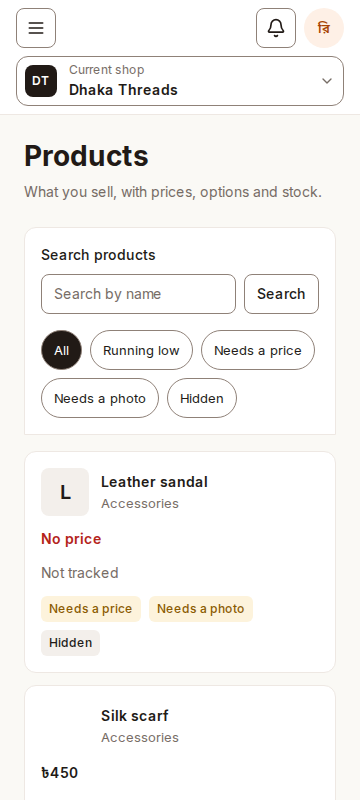
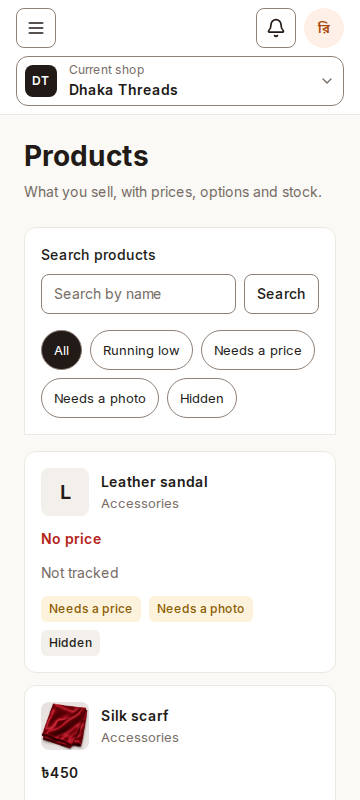
test(prod-4): show a visible photo in product evidence

Changed region(s): [[0.0917, 0.875, 0.2444, 0.9375]]

diff --git a/apps/web/e2e/products.spec.ts b/apps/web/e2e/products.spec.ts
@@ -1,4 +1,4 @@
-import { mkdir } from 'node:fs/promises';
+import { mkdir, readFile } from 'node:fs/promises';
 import { resolve } from 'node:path';
 
 import { expect, test } from '@playwright/test';
@@ -83,10 +83,7 @@ test('filters product readiness, adjusts stock and drops drafts when the shop ch
           })
         ).status(),
       ).toBe(204);
-    const png = Buffer.from(
[1 lines of base64/hex data omitted]
-      'base64',
-    );
+    const png = await readFile(resolve(process.cwd(), 'e2e/fixtures/silk-scarf.png'));
     const uploadInput = { contentType: 'image/png', sizeBytes: png.length };
     const issued = await (
       await request(`/products/${products[1]!.id}/photos/upload-url`, uploadInput)
@@ -122,7 +119,7 @@ test('filters product readiness, adjusts stock and drops drafts when the shop ch
           .getByRole('img', { name: 'Silk scarf' })
           .evaluate((image: HTMLImageElement) => image.naturalWidth),
       )
-      .toBeGreaterThan(0);
+      .toBeGreaterThan(1);
     await capture('list');
 
     await page.getByRole('link', { name: 'Running low', exact: true }).click();

diff --git a/docs/features/05-products-and-stock.md b/docs/features/05-products-and-stock.md
@@ -176,6 +176,7 @@ cache while form input stays in React Hook Form.
 Members with product edit access can adjust a variant with a signed quantity and
 reason. Product view access is checked by the page and after shop changes.
 The editor and photo controls remain for the second PROD-4 PR.
+A hidden product is how a shop keeps an unfinished product on the server.
 
 The list omits unsupported totals, sales, chat and waiting-list counts, category
 filters, best-selling order, import and promotion controls. The stock dialog
